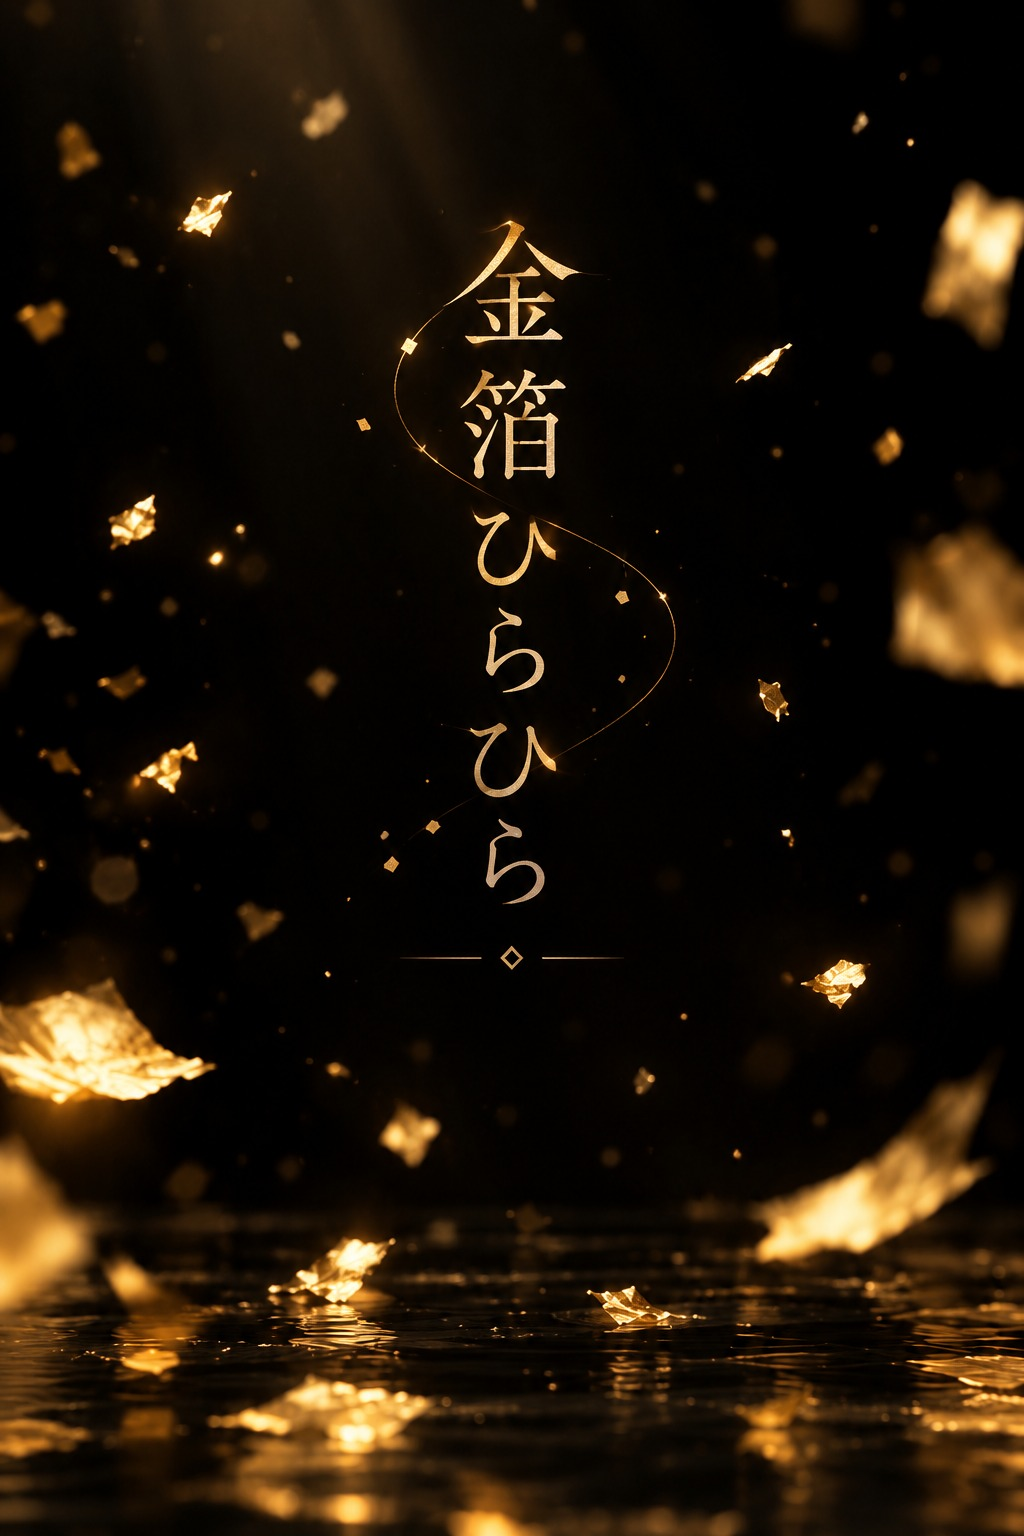
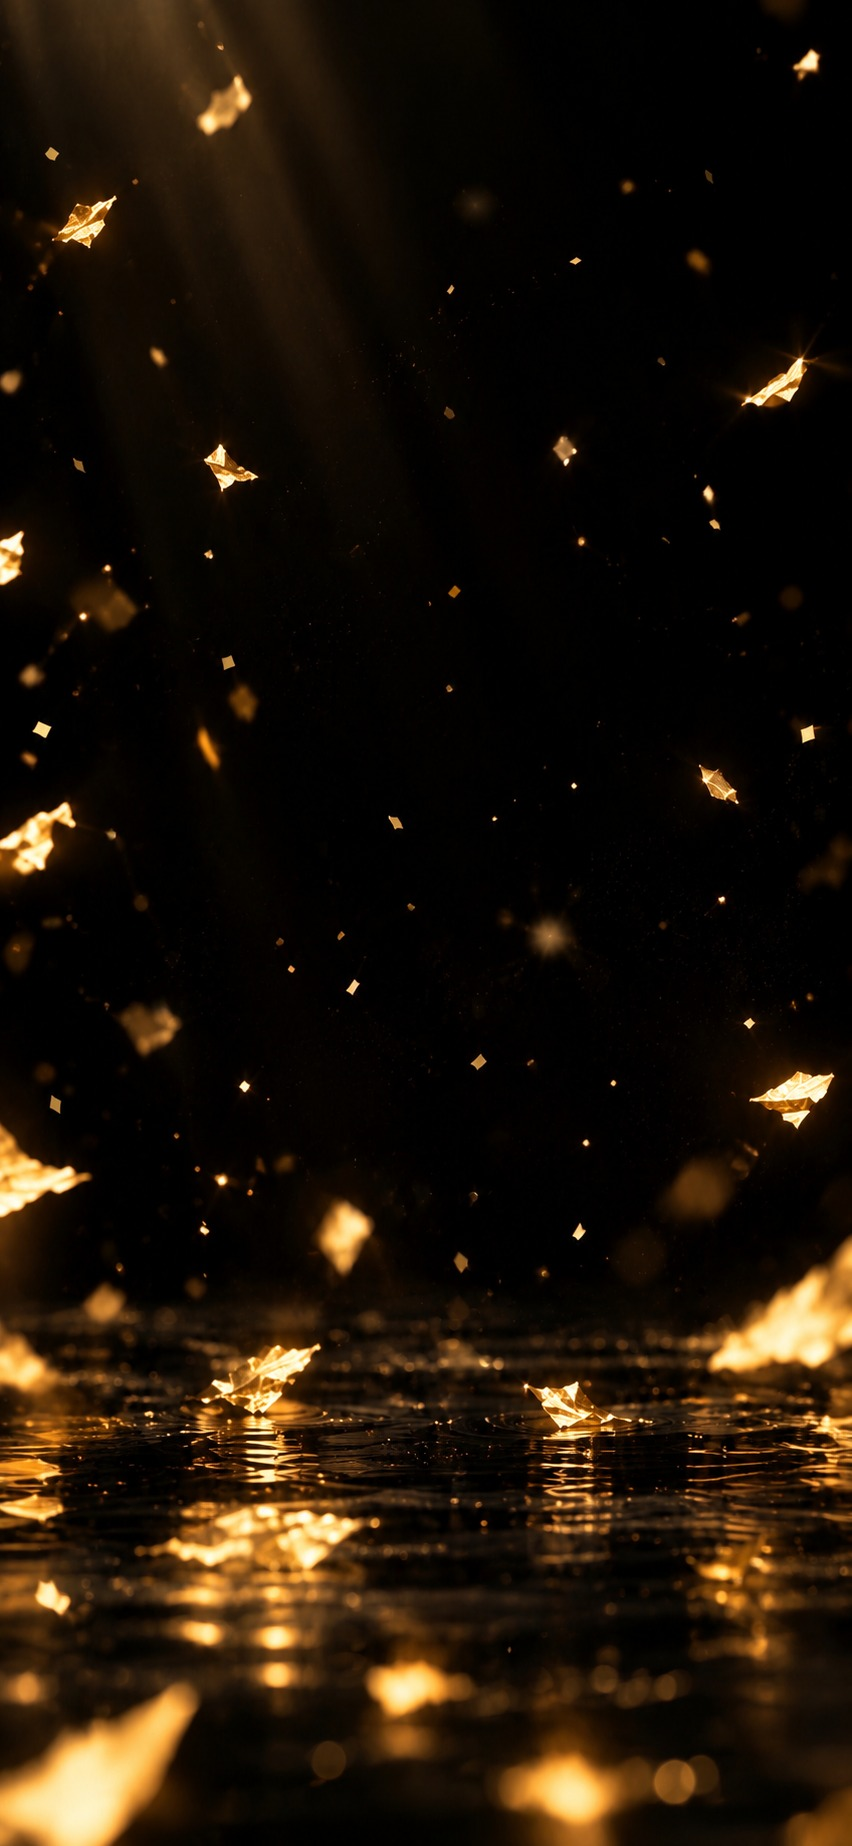
タイトルの背景を、画面いっぱいの絵に差し替える
前の絵は 1024x1536 (縦横比 0.667) で、iPhone 16 Plus の画面
(430x932 = 0.461) に合わせると左右を1割以上切り落としていた。
新しい絵は 852x1846 (0.462) で、ホーム画面から開いたときはほぼ
切らずに収まる。1.4MB の PNG を JPEG(品質0.92)へ焼き直して 188KB。

新しい絵には題字が描かれていないので、題字はこちら側で組み直した。
1字ずつ箱に入れて縦に積む(writing-mode 任せにすると、漢字の送りを
0 で返す環境で「金」と「箔」が重なる)。金の照りは文字を型抜きした
グラデーション、読みやすさのために黒い影も重ねている。

題字・副題・案内は、絵の暗いところ(上から6割)へ置いた。実測で下地の
明るさは 題字 2.1 / 案内 1.4 (255中)。画面下端は水面で 42.9 ある。

サービスワーカーの版を v7 に上げた(絵が差し替わるため)。

見張り⑮を新しい作りに合わせた(絵が届く・画面を覆う・題字の6字が
重ならず等間隔・題字と案内が暗い下地に乗っている)。

計測: タイトル画面は CPU4倍遅でも 60fps のまま
npm test 20件合格 / npm run test:ui 101件合格

Claude-Session: https://claude.ai/code/session_01WXYSvYZRBBGgS2Trv8wjDK

diff --git a/browser-test.js b/browser-test.js
@@ -788,7 +788,6 @@ async function run() {
       const img = document.getElementById('title-art');
       const b = img.getBoundingClientRect();
       return {
-        読み: img.alt,
         届いた: img.complete && img.naturalWidth > 0,
         元の大きさ: img.naturalWidth + 'x' + img.naturalHeight,
         すきま: Math.round(Math.max(b.top, b.left, innerWidth - b.right, innerHeight - b.bottom)),
@@ -796,9 +795,33 @@ async function run() {
         ぼけ: window.__app.titleFlakes.filter((f) => f.bokeh).length,
       };
     });
-    ok(絵.届いた, `題字の絵が届いている (${絵.元の大きさ})`);
-    ok(絵.読み === '金箔ひらひら', `絵の読みが「金箔ひらひら」(${絵.読み})`);
+    ok(絵.届いた, `背景の絵が届いている (${絵.元の大きさ})`);
     ok(絵.すきま <= 0, `絵が画面をすきま無く覆う (はみ出し/すきま ${絵.すきま}px)`);
+
+    /* 題字は絵に描かれていないので、こちらで組んでいる。
+       writing-mode まかせで縦書きにすると、字の送りを 0 で返すフォントの
+       環境で「金」と「箔」が同じ場所に重なって刷られる */
+    const 題字 = await pt.evaluate(() => {
+      const el = document.getElementById('title-main');
+      const boxes = [...el.children].map((sp) => {
+        const b = sp.getBoundingClientRect();
+        return { 字: sp.textContent, top: b.top, 高さ: b.height };
+      });
+      const 送り = [];
+      for (let i = 1; i < boxes.length; i++) 送り.push(boxes[i].top - boxes[i - 1].top);
+      const b = el.getBoundingClientRect();
+      return {
+        読み: boxes.map((x) => x.字).join(''),
+        字数: boxes.length,
+        重なり: 送り.filter((d, i) => d < boxes[i].高さ * 0.8).length,
+        最小: Math.min(...送り), 最大: Math.max(...送り),
+        はみ出し: b.left < 0 || b.right > innerWidth || b.top < 0 || b.bottom > innerHeight,
+      };
+    });
+    ok(題字.読み === '金箔ひらひら' && 題字.字数 === 6, `題字が「金箔ひらひら」(${題字.読み})`);
+    ok(題字.重なり === 0 && 題字.最大 - 題字.最小 < 2,
+      `題字の6字が重ならず等間隔に並ぶ (送り ${題字.最小.toFixed(0)}〜${題字.最大.toFixed(0)}px)`);
+    ok(!題字.はみ出し, '題字が画面からはみ出さない');
     ok(絵.ぼけ > 0 && 絵.層 > 絵.ぼけ,
       `奥のぼけた箔と手前の箔が両方ある (全${絵.層}枚 うちぼけ${絵.ぼけ}枚)`);
 
@@ -823,15 +846,19 @@ async function run() {
       const all = c.getImageData(0, 0, cv.width, cv.height).data;
       for (let i = 0; i < all.length; i += 4) if (all[i] > 120 && all[i] > all[i + 2] + 30) 金++;
       const b = document.getElementById('title-start').getBoundingClientRect();
+      const t = document.getElementById('title-main').getBoundingClientRect();
       return {
         金,
         案内の下地: 明るさ(b.left, b.top, b.width, b.height),
+        題字の下地: 明るさ(t.left, t.top, t.width, t.height),
         下端の下地: 明るさ(innerWidth * 0.1, innerHeight - 40, innerWidth * 0.8, 30),
       };
     });
     ok(下地.金 > 10000, `絵に金箔が写っている (${下地.金} 画素)`);
     ok(下地.案内の下地 < 70,
       `案内の文字が暗いところに乗っている (下地の明るさ ${下地.案内の下地} / 画面下端なら ${下地.下端の下地})`);
+    ok(下地.題字の下地 < 70,
+      `題字も暗いところに乗っている (下地の明るさ ${下地.題字の下地})`);
 
     /* 実際に落ちているか: 0.6 秒の間にどれだけ下がったか。
 

diff --git a/index.html b/index.html
@@ -314,14 +314,34 @@
   #title-screen.off  { display: none; }
   #titlecv { position: absolute; inset: 0; }
 
-  /* 案内は、絵の題字と水面のあいだの暗いところへ置く。
-     下端に置くと、光る水面に重なって読めなくなる */
+  /* 題字と案内は、絵の暗いところ(上から6割ほど)へ置く。
+     下は光る水面なので、重ねると読めなくなる */
   #title-inner {
-    position: absolute; top: 68%; left: 0; right: 0;
+    position: absolute; top: 9%; left: 0; right: 0;
     display: flex; flex-direction: column; align-items: center;
+    gap: 26px;
     padding: 0 16px;
     pointer-events: none;          /* 触れたら始まる。文字が邪魔をしない */
     text-align: center;
+  }
+  #title-main {
+    /* 縦書き。writing-mode で組むと字の送りがフォント任せになり、
+       漢字の送りを 0 で返す環境では「金」と「箔」が重なって刷られる。
+       1字ずつ箱に入れて積み、送りは line-height で決める */
+    display: flex; flex-direction: column; align-items: center;
+    flex: 0 0 auto;
+    font-size: 42px; line-height: 1.3; letter-spacing: 0;
+    /* 金の照りは、文字を型抜きしたグラデーションで出す */
+    background: linear-gradient(to bottom, #f7e9b0 0%, #e2c168 34%, #b8862f 68%, #f0d878 100%);
+    -webkit-background-clip: text; background-clip: text;
+    color: transparent; -webkit-text-fill-color: transparent;
+    filter: drop-shadow(0 0 14px rgba(201,162,75,0.4)) drop-shadow(0 0 3px rgba(0,0,0,0.85));
+  }
+  #title-sub {
+    color: rgba(228,206,152,0.7);
+    font-size: 13px; letter-spacing: 0.32em;
+    text-shadow: 0 0 10px rgba(0,0,0,0.9);
+    margin-top: -8px;
   }
   #title-start {
     color: rgba(240,224,186,0.72);
@@ -420,9 +440,11 @@
 
 <!-- タイトル画面:触れると遊ぶ画面へ -->
 <div id="title-screen">
-  <img id="title-art" src="./title.jpg" alt="金箔ひらひら">
+  <img id="title-art" src="./title.jpg" alt="" aria-hidden="true">
   <canvas id="titlecv"></canvas>
   <div id="title-inner">
+    <div id="title-main"><span>金</span><span>箔</span><span>ひ</span><span>ら</span><span>ひ</span><span>ら</span></div>
+    <div id="title-sub">金箔を、ひとひら。</div>
     <div id="title-start">画面に触れて はじめる</div>
   </div>
 </div>

diff --git a/sw.js b/sw.js
@@ -4,7 +4,7 @@
    - アイコンなどの変わらない物はキャッシュ優先で即表示
    - 更新時はキャッシュ名(バージョン)を変えると古い物を掃除
    ============================================================ */
-const CACHE_NAME = "kinpaku-hirahira-v6";
+const CACHE_NAME = "kinpaku-hirahira-v7";
 
 const ASSETS = [
   "./",
